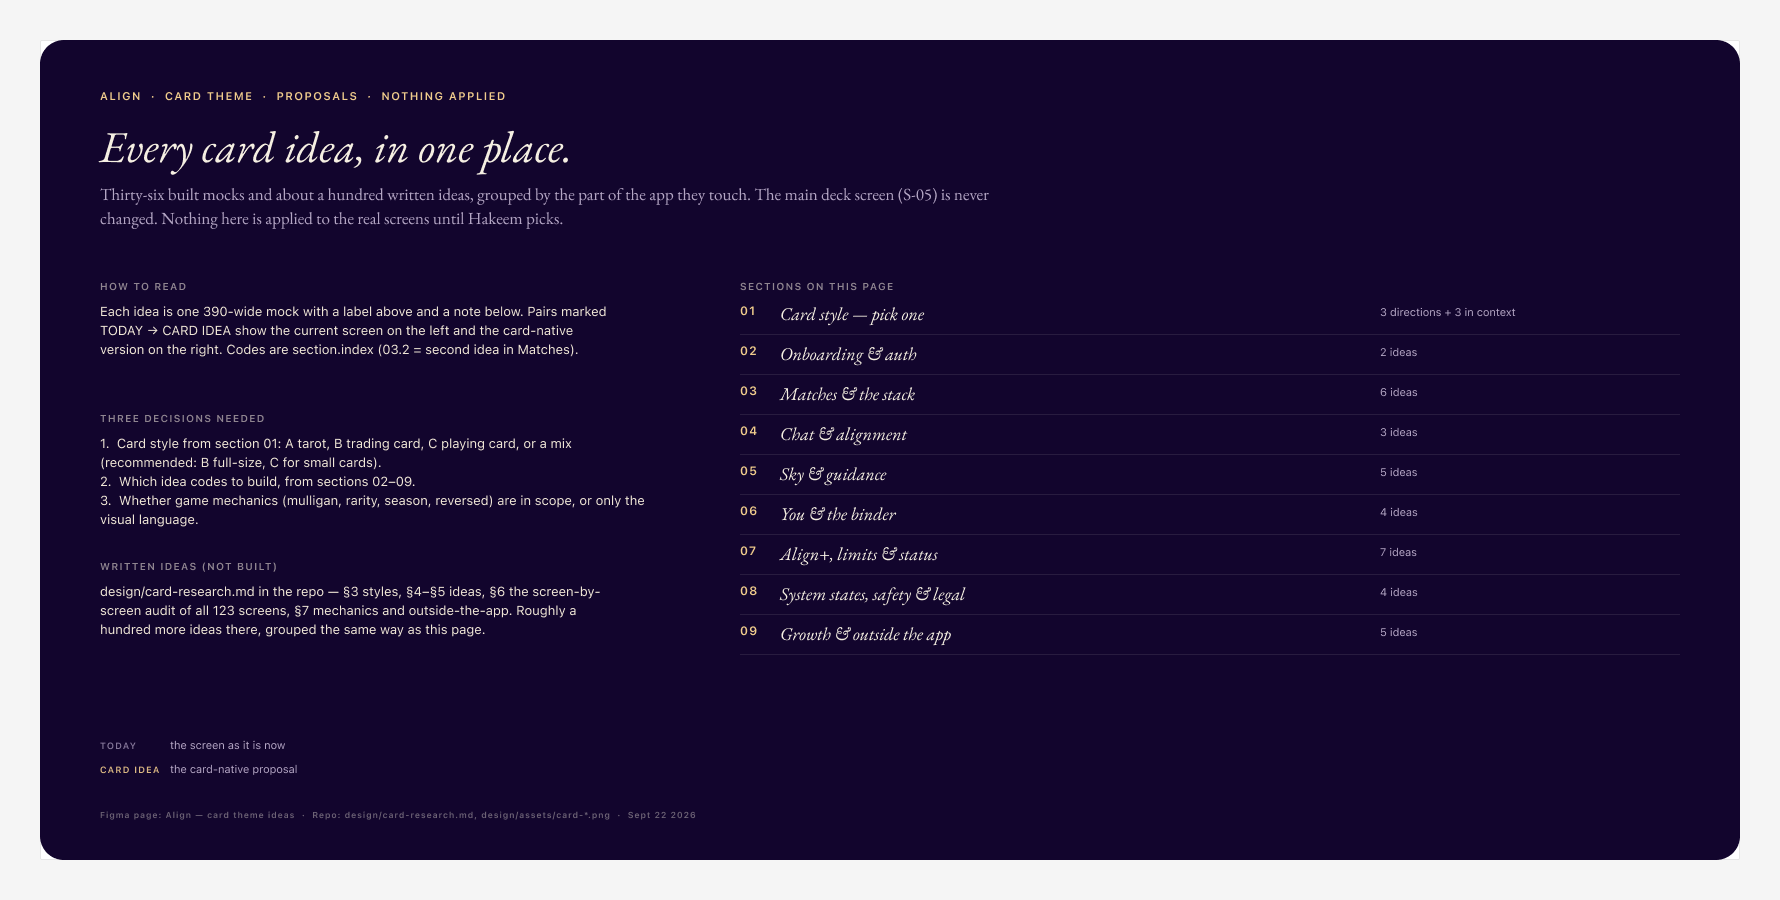
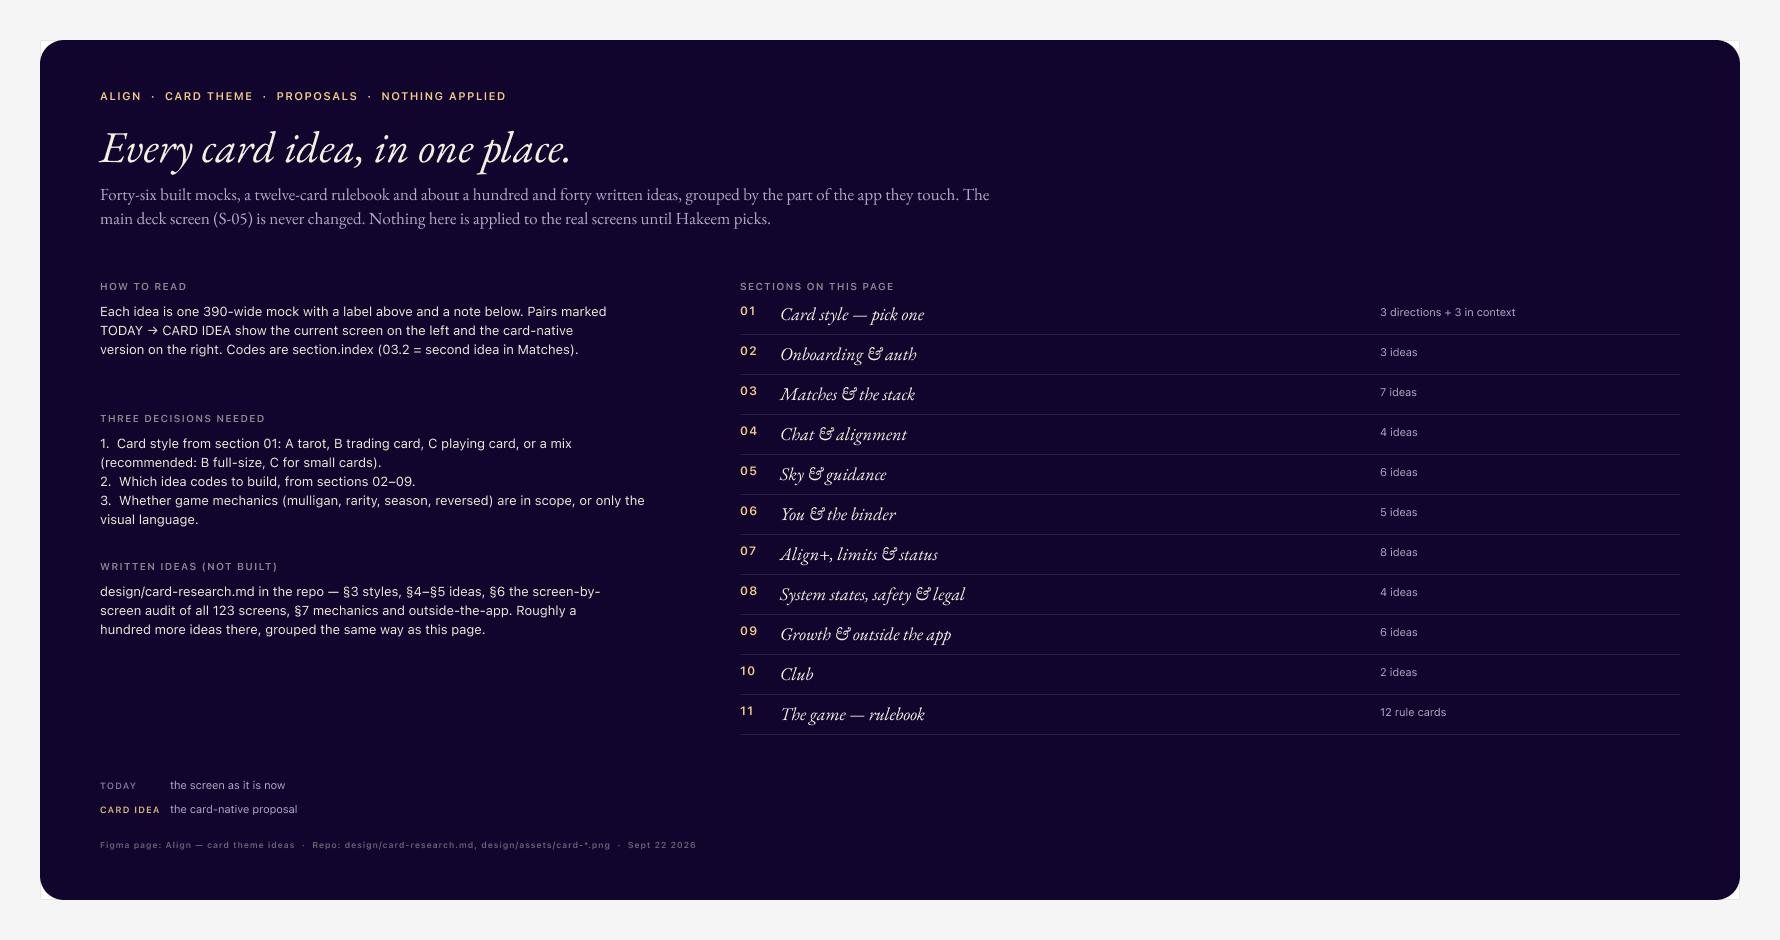
Card ideas: ten more by feature, Club section, twelve-card rulebook
Claude-Session: https://claude.ai/code/session_016YjMTARDAwfH7MsqGSPAVh

diff --git a/design/card-research.md b/design/card-research.md
@@ -463,3 +463,119 @@ Board `1854:2279`. Nothing applied; deck untouched.
 - Haptics: a card being dealt, a card flipping, a card being cut.
 - Sound: one soft deal sound at 11:11 push.
 - The Apple Watch complication as your card back with the count.
+
+## 8. The game — ten more built, a rulebook, and forty written
+
+Added straight into the organised Figma page by area. Codes below are the
+page codes. Nothing applied; deck untouched.
+
+### Built
+
+- **02.3 The practice hand.** Before the real deck, three practice cards:
+  the dealer, the rules card, one sample person card with the gestures
+  printed under it. Release one, hold one, align one, then the real deal.
+- **03.7 Card conditions.** Five states readable from the card itself
+  everywhere it appears: veiled is sleeved, sparked has a cyan edge,
+  aligned is gold foil, going quiet fades with an orange corner, released
+  is face down. One grammar instead of five labels.
+- **04.4 The truth card.** One question, two answer slots, answers reveal
+  at the same time or not at all. One a day per pair; the joint card keeps
+  the ones both answered.
+- **05.6 The spread of three.** Behind you, today, ahead: Monday's,
+  today's raised, Sunday's sky cards with one reading across them.
+- **06.5 The binder cover.** Collector since, foils, sets, rarity, align
+  rate, signs, seasons; badges as pips; the pages list.
+- **07.8 Peak tokens.** Three tokens a night, spent for six seconds of a
+  face, refilled at 11:11; Align+ never empties; a booster token is a
+  small purchase for the one card you cannot leave.
+- **09.6 The blank card.** An invite is a blank card with your from-line;
+  the friend casts their chart into it. They get the founding sleeve, you
+  get a season pack. Three per member.
+- **10.1 The table card.** The club room as a table: the sign's card on
+  top with count and city; posts dealt as cards with an aura corner; chips
+  as upvotes; flick to dismiss.
+- **10.2 Draft night.** The room drafts tonight's prompt from three cards
+  by playing one chip each; the winner becomes the table card at nine.
+- **11 The rulebook.** The whole system as twelve rule cards: the deck,
+  the card, the align, the hand, the binder, the sleeve, the cut, the
+  mulligan, the foil, the season, reversed, the table.
+
+### Written, by feature
+
+**Deck-adjacent (never the deck screen itself)**
+- The dealer's warning: at 11:10 a small dealer card slides in, "table
+  clears in one minute".
+- Card weight: a card you have peeked twice gets heavier (a slower swipe,
+  a deeper shadow).
+- The ante: on peak nights you may put one of tonight's fifteen back to
+  draw from the "wider table" (35 miles).
+- Suit runs: three cards of one element in a night light a small run
+  marker under the stack.
+- The dead card: a profile paused mid-night turns grey in your stack with
+  "sleeved" printed across it.
+
+**Matches**
+- The kicker: when both align within a minute the joint card gets a
+  "snap" stamp.
+- Trade-up: unmatch politely by "passing the card back to the dealer".
+- Match order as hand order: drag to sort your hand; the app remembers.
+- Expiring matches curl at the corner three days out.
+
+**Chat**
+- The bluff: send a sealed message that opens only if she replies first.
+- The wager: "if you're right, I book dinner" as a two-sided card with an
+  outcome.
+- The date card deck: six templates from overlap in interests, place and
+  hours; play one, she edits, both accept, it stamps.
+- The pass: a graceful "not tonight" card that keeps the thread warm for
+  48 hours.
+- Read receipts as a card turning slightly toward you.
+
+**Sky & guidance**
+- The daily cut: the sky "cuts the deck" each night; the cut line shows
+  which element is on top.
+- Eclipse night: black foil backs for everyone, one night a year.
+- New moon: blank card backs; full moon: every back glows.
+- The retrograde sleeve: during Mercury retrograde messages sit in a
+  "re-read" sleeve for ten seconds before sending.
+- The transit card as a push: the notification is the card, tap to flip.
+
+**You & the binder**
+- Sleeves you earn: founding, verified, season, one-year, a hundred
+  aligned.
+- The proof card: verification as a tiny foil seal that others can tap to
+  see the date.
+- Re-print: edit your reads and the old printing stays in the binder as
+  "first printing".
+- The trade binder: cards you would recommend to a friend (with consent).
+- The lost-and-found page: released cards the sky deals you again.
+
+**Club**
+- The house rules card pinned at the top of every room.
+- Room chips: a member's chip colour shows their moon sign.
+- The pot: a weekly prompt where the best reply's card is featured in the
+  room's table card.
+- Draft leagues: the four element rooms compete on replies during a
+  season.
+
+**Align+, limits & status**
+- The pile: Align+ peaks as a visible pile of tokens on the widget.
+- The dealer's cut: founding members skip the 11:10 sweep once a week.
+- Foil finishes: gold (founding), silver (verified), rainbow (both).
+- Sleeve shop: seasonal sleeves as small one-time purchases, never
+  affecting the deal.
+
+**System, safety & legal**
+- Report as "calling the dealer": the dealer card slides in, takes the
+  card off the table, thanks you.
+- The safe word card: a card you can play in chat that pauses the thread
+  and opens the safety guide for both.
+- Loading is a riffle; error is a card dropped on the floor, picked up on
+  retry.
+
+**Growth & outside the app**
+- Card of the night as a story-size image with the pair anonymised.
+- Season sleeves as App Store screenshots.
+- The rulebook as the About page and as a printed insert in the physical
+  card's envelope.
+- Wallet pass: your card back in Apple Wallet with the founding serial.

diff --git a/design/scores.md b/design/scores.md
@@ -550,3 +550,16 @@ tags and the cloned current screen. The five per-session boards
 (`1836:2258`, `1838:2258`, `1839:2262`, `1849:2264`, `1854:2279`) were
 emptied and removed from the Stardust section. All 36 mocks moved, none
 recreated. S-05 untouched.
+
+## Card ideas · the game batch
+
+Ten more built straight into the organised page (02.3 practice hand, 03.7
+card conditions, 04.4 truth card, 05.6 spread of three, 06.5 binder cover,
+07.8 peak tokens, 09.6 blank card, new section 10 Club `1872:1080` with
+10.1 table card and 10.2 draft night, new section 11 The game `1872:1308`
+with twelve rule cards). Cover index updated with 10 and 11 and refreshed
+counts; sections re-spaced. CTA clones now use the uniform-font copy
+`1839:3143` (the kit holo button has mixed fonts). Renders:
+`design/assets/card-rulebook.png`, `card-club.png`, `card-ideas-cover.png`.
+§8 of `design/card-research.md` has the ten plus ~40 written by feature.
+S-05 untouched.
